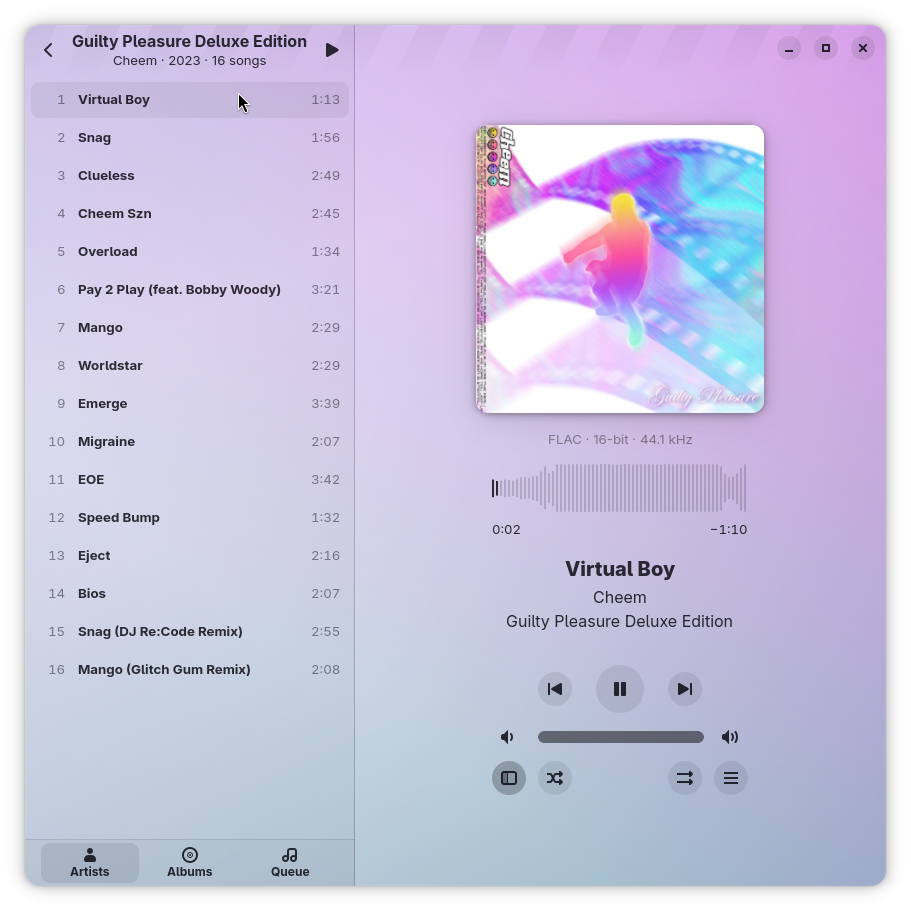
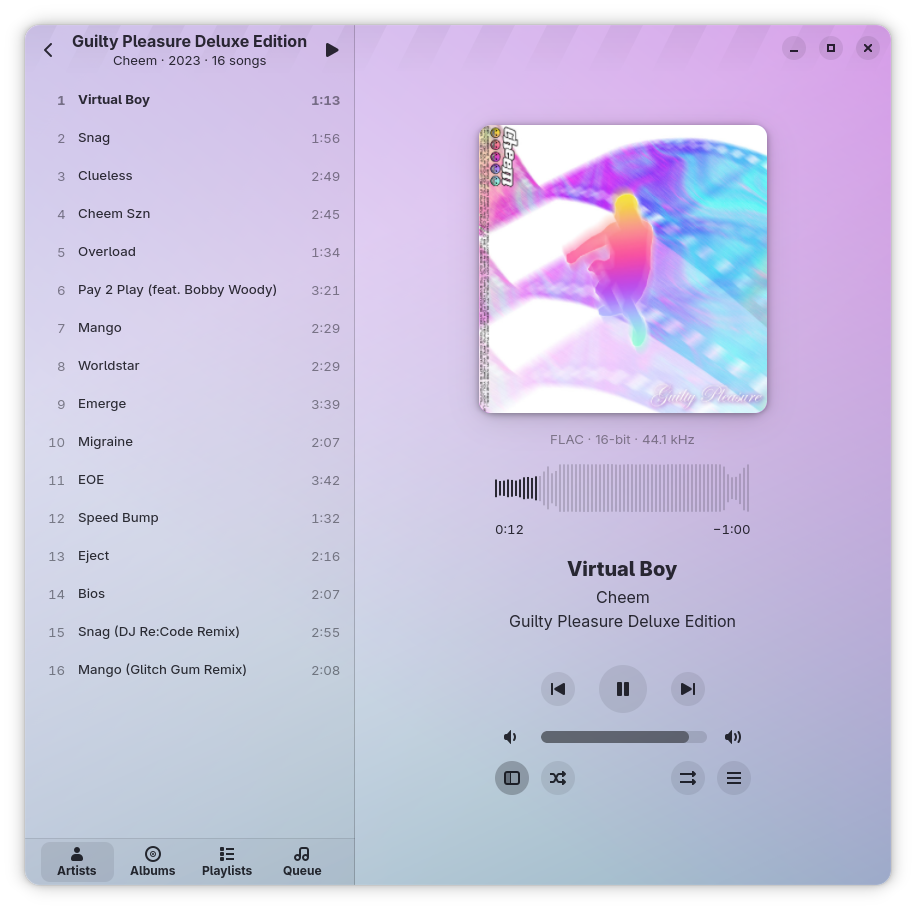
Update 0.3.0 release info

diff --git a/CHANGES.md b/CHANGES.md
@@ -2,7 +2,18 @@
 
 All notable changes to this project will be documented in this file.
 
-## 0.2.0 - 2025-11-06
+## 0.3.0 - 2026-11-06
+
+- m3u playlist support
+- Distinguish albums by the same artist with the same name but different year
+- Various text formatting changes in library sidebar
+- Currently playing track in library sidebar is now bold
+- Show empty library page when clearing library and artist album page is open
+- Adjust large cover art window sizing threshold
+- Display bitrate info for lossy tracks
+- Change 'Add Folder/Song' UI labels to 'Queue Folder/Track'
+
+## 0.2.0 - 2026-11-06
 
 - Add rescan library shortcut (Ctrl+R)
 - Find new tracks during rescan, not just removed tracks
